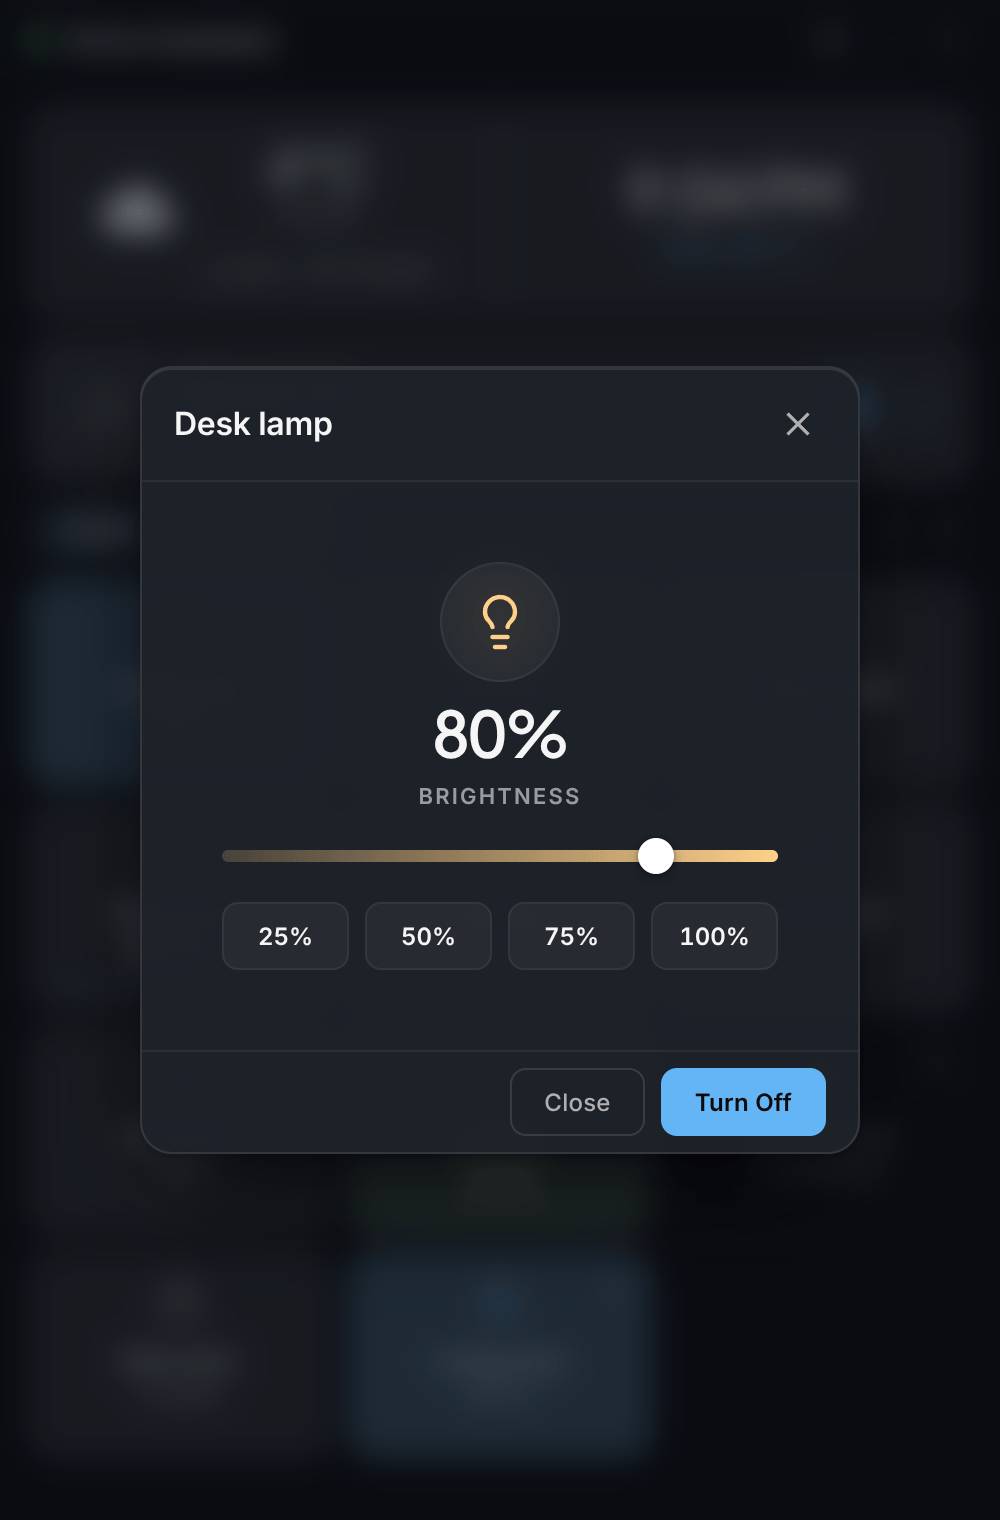
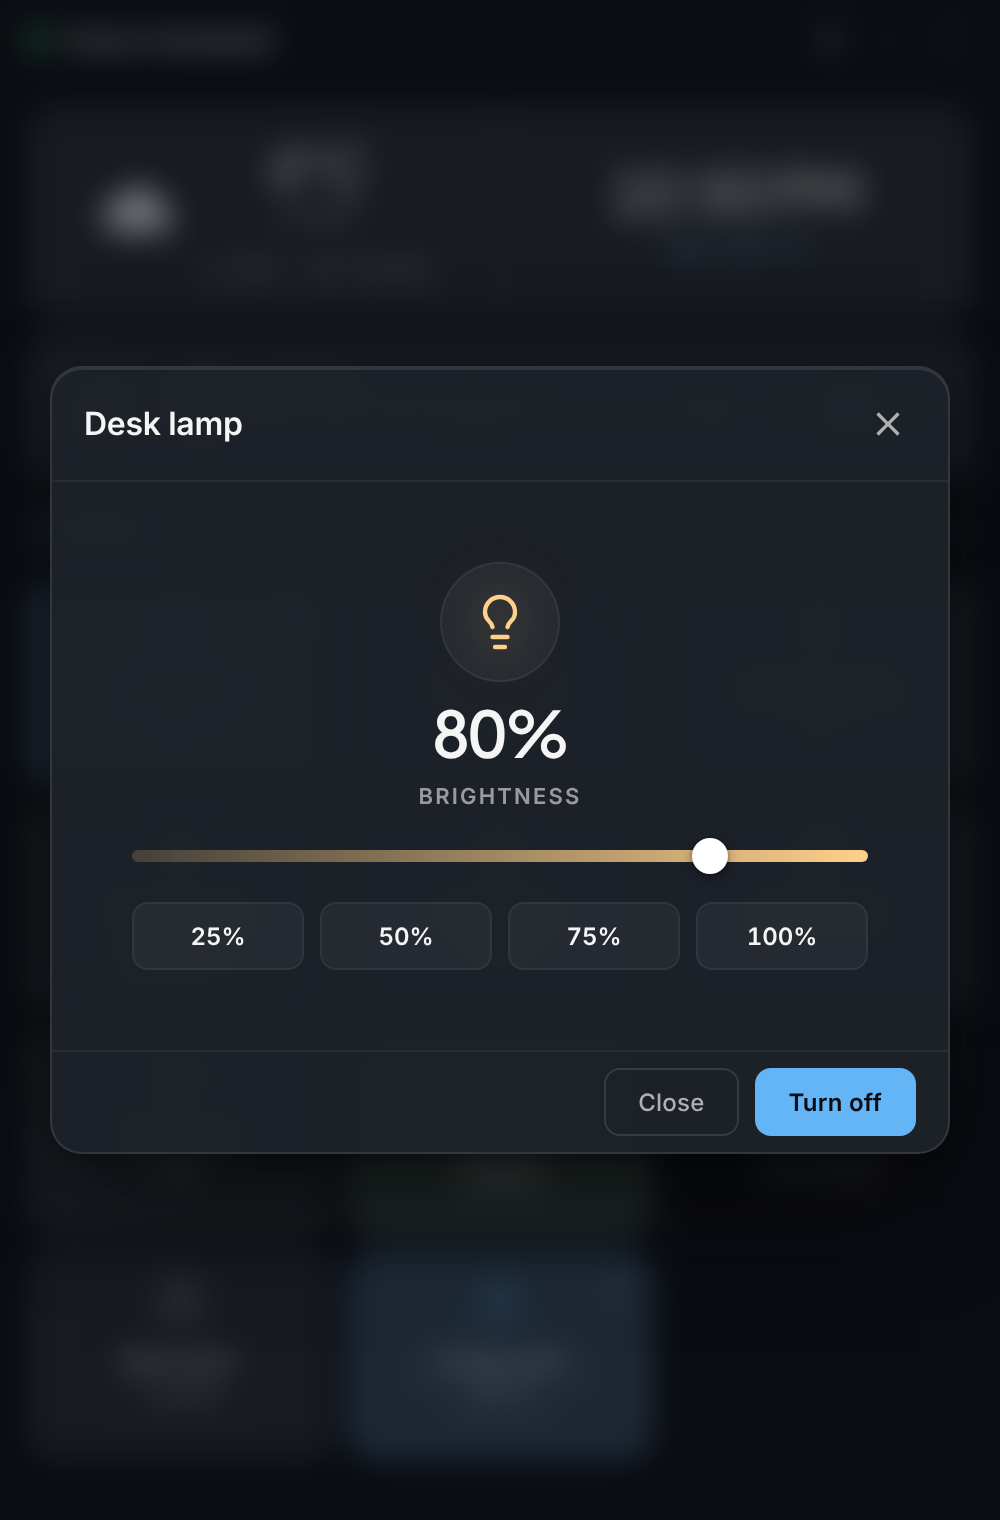
website: bring the site in line with the 4.0 app
Compared every page with the current app (latest beta) and the 4.0
changelog:
- Recapture Main_View, Light_Adjust and Settings_Appearance from the
  current app: the old shots said "Turn Off" and "Save" and showed a
  short media seek bar. The README uses the same images, so update them
  there too and bump their cache-busting version.
- Match the homepage widget replica to the app: the media seek bar takes
  the row's free space, the brightness slider is one warm ramp, and the
  pop-up's close button is a plain X.
- Add feature tiles for themes and seasonal art and for desktop alerts,
  mention the Omarchy bar on the pins tile, say Ctrl+K works inside the
  widget, say sync merges by section, and say "no telemetry by default",
  since 4.0 adds an opt-in install count.
- Add the System Settings "Open Anyway" step to the no-JavaScript macOS
  install instructions.
- The install count switch is under Settings → Advanced, not
  Settings → Updates: fix the path in the privacy page, README and
  changelog.

Claude-Session: https://claude.ai/code/session_01Vt3JUNrWdu6yqJoXAPgczH

diff --git a/website/index.html b/website/index.html
@@ -72,7 +72,7 @@
       </div>
       <ul class="facts" aria-label="At a glance">
         <li>No account for core features</li>
-        <li>No telemetry</li>
+        <li>No telemetry by default</li>
         <li>MIT licensed</li>
         <li>Automatic updates for Windows installer and Linux AppImage</li>
       </ul>
@@ -238,7 +238,7 @@
         <article class="tile reveal">
           <span class="tile-icon"><svg class="ico" aria-hidden="true"><use href="/assets/icons.svg#i-command"/></svg></span>
           <h3>Global hotkeys</h3>
-          <p>Control devices from any app, or press Ctrl+K to search everything.</p>
+          <p>Control devices from any app. In the widget, press Ctrl+K to search devices, pages and actions.</p>
           <div class="keys" aria-hidden="true"><kbd>Ctrl</kbd><span>+</span><kbd>K</kbd></div>
         </article>
 
@@ -251,7 +251,7 @@
         <article class="tile reveal">
           <span class="tile-icon"><svg class="ico" aria-hidden="true"><use href="/assets/icons.svg#i-pin"/></svg></span>
           <h3>Desktop pins</h3>
-          <p>Drop any tile onto your desktop as its own little window.</p>
+          <p>Drop any tile onto your desktop as its own little window. On Omarchy, add your tiles to the bar too.</p>
           <div class="presets" aria-hidden="true"><span>25%</span><span>50%</span><span class="on">75%</span><span>100%</span></div>
         </article>
 
@@ -259,6 +259,18 @@
           <span class="tile-icon"><svg class="ico" aria-hidden="true"><use href="/assets/icons.svg#i-video"/></svg></span>
           <h3>Live cameras</h3>
           <p>Watch live feeds or refreshing snapshots right in the widget.</p>
+        </article>
+
+        <article class="tile t-half reveal">
+          <span class="tile-icon"><svg class="ico" aria-hidden="true"><use href="/assets/icons.svg#i-palette"/></svg></span>
+          <h3>Light, dark and seasonal</h3>
+          <p>Choose Auto, Dark or Light and an accent color. Seasonal themes bring cobwebs and jack-o'-lanterns in October, snow and Santa's sleigh in December, and art for other holidays. Turn any of them off in Settings.</p>
+        </article>
+
+        <article class="tile t-half reveal">
+          <span class="tile-icon"><svg class="ico" aria-hidden="true"><use href="/assets/icons.svg#i-bell"/></svg></span>
+          <h3>Desktop alerts</h3>
+          <p>Get a notification when a door stays open, a reading crosses a threshold, or a device goes offline. Home Assistant's own notifications show up too, and wait in the bell until you dismiss them.</p>
         </article>
 
         <article class="tile t-half reveal">
@@ -270,7 +282,7 @@
         <article class="tile t-half reveal">
           <span class="tile-icon"><svg class="ico" aria-hidden="true"><use href="/assets/icons.svg#i-sync"/></svg></span>
           <h3>Profile sync, opt-in</h3>
-          <p>Keep your layout and theme in sync through a folder you already sync. Edits merge section by section, with a backup when both computers change the same setting. Optional passphrase encryption protects the file; tokens, desktop pins, window positions and hotkeys stay local.</p>
+          <p>Keep your layout and theme in sync through a folder you already sync. Edits merge section by section, with a backup when both computers change the same section. Optional passphrase encryption protects the file; tokens, desktop pins, window positions and hotkeys stay local.</p>
         </article>
       </div>
     </section>

diff --git a/website/styles.css b/website/styles.css
@@ -489,16 +489,18 @@ h1 {
 .media-info { min-width: 0; }
 .media-title { font-size: 13.5px; font-weight: 600; white-space: nowrap; }
 .media-artist { font-size: 12px; color: rgba(255, 255, 255, 0.55); }
+/* The seek bar takes the room the row has between the title and the controls, as in the app. */
 .media-progress {
   display: flex;
+  flex: 1;
   align-items: center;
   gap: 7px;
-  margin-left: auto;
+  min-width: 0;
   font-size: 10.5px;
   color: rgba(255, 255, 255, 0.55);
   font-variant-numeric: tabular-nums;
 }
-.media-track { width: 48px; height: 3px; border-radius: 2px; background: rgba(255, 255, 255, 0.12); overflow: hidden; }
+.media-track { flex: 1; min-width: 36px; height: 3px; border-radius: 2px; background: rgba(255, 255, 255, 0.12); overflow: hidden; }
 #media-bar { display: block; height: 100%; background: var(--accent); border-radius: 2px; }
 .media-ctrls { display: flex; align-items: center; gap: 2px; }
 .media-ctrls button {
@@ -684,11 +686,12 @@ button.qa:active { transform: scale(0.96); }
   height: 30px;
   padding: 0;
   border-radius: 8px;
-  border: 1px solid rgba(255, 255, 255, 0.12);
-  background: rgba(255, 255, 255, 0.04);
+  border: 0;
+  background: none;
   color: rgba(255, 255, 255, 0.8);
   cursor: pointer;
 }
+.bright-x:hover { background: rgba(255, 255, 255, 0.08); }
 .bright-body { display: flex; flex-direction: column; align-items: center; padding: 18px 20px 20px; }
 .bright-bulb {
   display: grid;
@@ -703,15 +706,15 @@ button.qa:active { transform: scale(0.96); }
 .bright-pop.is-off .bright-bulb { color: rgba(255, 255, 255, 0.45); }
 .bright-value { margin-top: 10px; font: 600 32px/1.1 var(--font-display); letter-spacing: -0.03em; font-variant-numeric: tabular-nums; }
 .bright-label { margin-top: 2px; font-size: 10.5px; font-weight: 700; letter-spacing: 0.1em; text-transform: uppercase; color: rgba(255, 255, 255, 0.5); }
+/* The whole track is a warm ramp from dim to bright, as in the app, whatever the brightness. */
 #bright-slider {
-  --fill: 80%;
   width: 100%;
   height: 6px;
   margin: 18px 0 0;
   border-radius: 999px;
   -webkit-appearance: none;
   appearance: none;
-  background: linear-gradient(90deg, #6f5a3c, #f5c77e) 0 / var(--fill) 100% no-repeat, rgba(255, 255, 255, 0.12);
+  background: linear-gradient(90deg, #45413a, #ffd08a);
   cursor: pointer;
 }
 #bright-slider::-webkit-slider-thumb {
@@ -1373,7 +1376,7 @@ kbd {
   .tile.t-wide { grid-column: span 6; }
   .tile { grid-column: span 3; }
   .tile.t-half { grid-column: span 3; }
-  /* The homepage bento is a wide tile and six more: the second and the last take a whole row, so
+  /* The homepage bento is a wide tile and eight more: the second and the last take a whole row, so
      the pairs between them stay even. Other bentos (the companion page has four half-width tiles)
      pair up as they are, so this is not written for every .bento. */
   .bento-home > .tile:nth-child(2), .bento-home > .tile:last-child { grid-column: span 6; }

diff --git a/website/privacy.html b/website/privacy.html
@@ -67,7 +67,7 @@
     <h3>Links and Profile Sync</h3>
     <p>Report an issue, Releases, Sponsor and Profile Sync help open GitHub pages in your default browser, and that site's own policy applies from there. Profile Sync, if you turn it on, writes one file to a folder you choose. The app does not contact Dropbox, OneDrive, iCloud Drive, Google Drive or Syncthing; whichever service syncs that folder handles the file. You can encrypt the file with a passphrase.</p>
     <h3>Anonymous install count (off unless you turn it on)</h3>
-    <p>Release download counts include every update, so they cannot say how many people use the app. If you turn on <strong>Settings → Updates → Count this install</strong>, the app sends one small request a day to a counter hosted on Cloudflare. It contains a random install ID created on your computer, the app version, and your operating system family (Windows, macOS, or Linux). It contains nothing about you, your Home Assistant, your entities, or your settings.</p>
+    <p>Release download counts include every update, so they cannot say how many people use the app. If you turn on <strong>Settings → Advanced → Count this install</strong>, the app sends one small request a day to a counter hosted on Cloudflare. It contains a random install ID created on your computer, the app version, and your operating system family (Windows, macOS, or Linux). It contains nothing about you, your Home Assistant, your entities, or your settings.</p>
     <p>The counter stores only the install ID, the days it was first and last seen, and its latest version and operating system. It does not store IP addresses or browser or app identifiers, and we use it only to count installs. Turning the setting off stops the requests, and the <code>DO_NOT_TRACK=1</code> environment variable stops them even when the setting is on. The install ID is kept in <code>usage-ping.json</code> in the app's settings folder; deleting that file gives the app a new, unrelated ID.</p>
 
     <h2>This website</h2>

diff --git a/website/download.html b/website/download.html
@@ -69,7 +69,7 @@
           <p class="install-started" id="install-started" hidden>Your download has started.</p>
           <ol class="install-steps" id="install-steps">
             <li><b>Windows:</b> run the installer, or double-click the portable .exe.</li>
-            <li><b>macOS:</b> open the .dmg and drag the app into <b>Applications</b>. The first time, Control-click it and choose <b>Open</b>.</li>
+            <li><b>macOS:</b> open the .dmg and drag the app into <b>Applications</b>. The first time, Control-click it and choose <b>Open</b>. If macOS still blocks it, choose <b>Open Anyway</b> in <b>System Settings → Privacy &amp; Security</b>.</li>
             <li><b>Linux:</b> allow the AppImage to run as a program and double-click it, or install the .deb. On Ubuntu 23.10 and later, use the .deb or <a href="https://github.com/Robertg761/HA-Desktop-Widget/blob/main/docs/linux-appimage.md" target="_blank" rel="noopener">start the AppImage with <code>--no-sandbox</code></a>. Remembering your sign-in needs a running keyring, such as GNOME Keyring or KWallet.</li>
             <li>Enter your Home Assistant address and approve it in your browser.</li>
           </ol>

diff --git a/website/script.js b/website/script.js
@@ -192,7 +192,6 @@ function syncBrightness() {
   const e = ENTITIES[popTarget];
   popValue.textContent = e.on ? `${e.bri}%` : 'Off';
   popSlider.value = e.bri;
-  popSlider.style.setProperty('--fill', `${e.bri}%`);
   popPower.textContent = e.on ? 'Turn off' : 'Turn on';
   pop.classList.toggle('is-off', !e.on);
 }

diff --git a/README.md b/README.md
@@ -11,11 +11,11 @@ A frosted-glass desktop widget for Home Assistant that provides quick access to 
 
 [![GitHub Sponsors](https://img.shields.io/badge/GitHub_Sponsors-Support_the_project-ea4aaa?logo=githubsponsors)](https://github.com/sponsors/Robertg761)
 
-<img src="images/Main_View.png?v=20261004" alt="Main view" width="280"> <img src="images/Edit_View.png?v=20261004" alt="Edit view" width="280"> <img src="images/Light_Adjust.png?v=20261004" alt="Light adjust" width="280">
+<img src="images/Main_View.png?v=20261015" alt="Main view" width="280"> <img src="images/Edit_View.png?v=20261004" alt="Edit view" width="280"> <img src="images/Light_Adjust.png?v=20261015" alt="Light adjust" width="280">
 
 ## Settings
 
-<img src="images/Settings_Appearance.png?v=20261004" alt="Appearance settings" width="320">
+<img src="images/Settings_Appearance.png?v=20261015" alt="Appearance settings" width="320">
 
 Settings are organized into six pages on the left: **General** (Home Assistant connection, window behavior, language), **Appearance** (light or dark theme, colors, window effects, readability), **Dashboard** (primary cards, date and time formats, weather source, media tile, custom entity icons), **Hotkeys**, **Alerts**, and **Advanced** (updates, profile sync, diagnostics).
 
@@ -404,7 +404,7 @@ your own checkout, so it only proves anything on a clean, up-to-date `main`.)
 ### Anonymous install count
 
 Release download numbers count every update, so they can't say how many people use the app.
-If you turn on **Settings → Updates → Count this install** (it is off by default), packaged
+If you turn on **Settings → Advanced → Count this install** (it is off by default), packaged
 builds send one request a day with a random install ID, the app version, and the OS family
 (Windows, macOS, or Linux). Nothing about you, your Home Assistant, or your settings is sent, and
 the counter does not store IP addresses. The ID lives in `usage-ping.json` next to `config.json`

diff --git a/CHANGELOG.md b/CHANGELOG.md
@@ -11,7 +11,7 @@ and this project adheres to [Semantic Versioning](https://semver.org/spec/v2.0.0
 
 ### Added
 
-- Add an opt-in anonymous install count so the project can see how many people use the app. It is off by default. Turn on Settings → Updates → Count this install and the app sends a random install ID, its version, and the OS family once a day, and nothing else. `DO_NOT_TRACK=1` stops it even when the setting is on.
+- Add an opt-in anonymous install count so the project can see how many people use the app. It is off by default. Turn on Settings → Advanced → Count this install and the app sends a random install ID, its version, and the OS family once a day, and nothing else. `DO_NOT_TRACK=1` stops it even when the setting is on.
 - Add numeric and select helper dialogs with current bounds/options, and vacuum controls limited to each device's supported actions.
 - Complete supported alarm arming modes and disarm in the command palette, with a temporary code prompt when required. Disarm requires a typed query and codes are never saved with recents.
 - Export and import portable settings files from Advanced, with a preview of changed sections and referenced devices, a backup before applying, and restore controls available without profile sync. Credentials and computer-specific settings stay on each computer.
